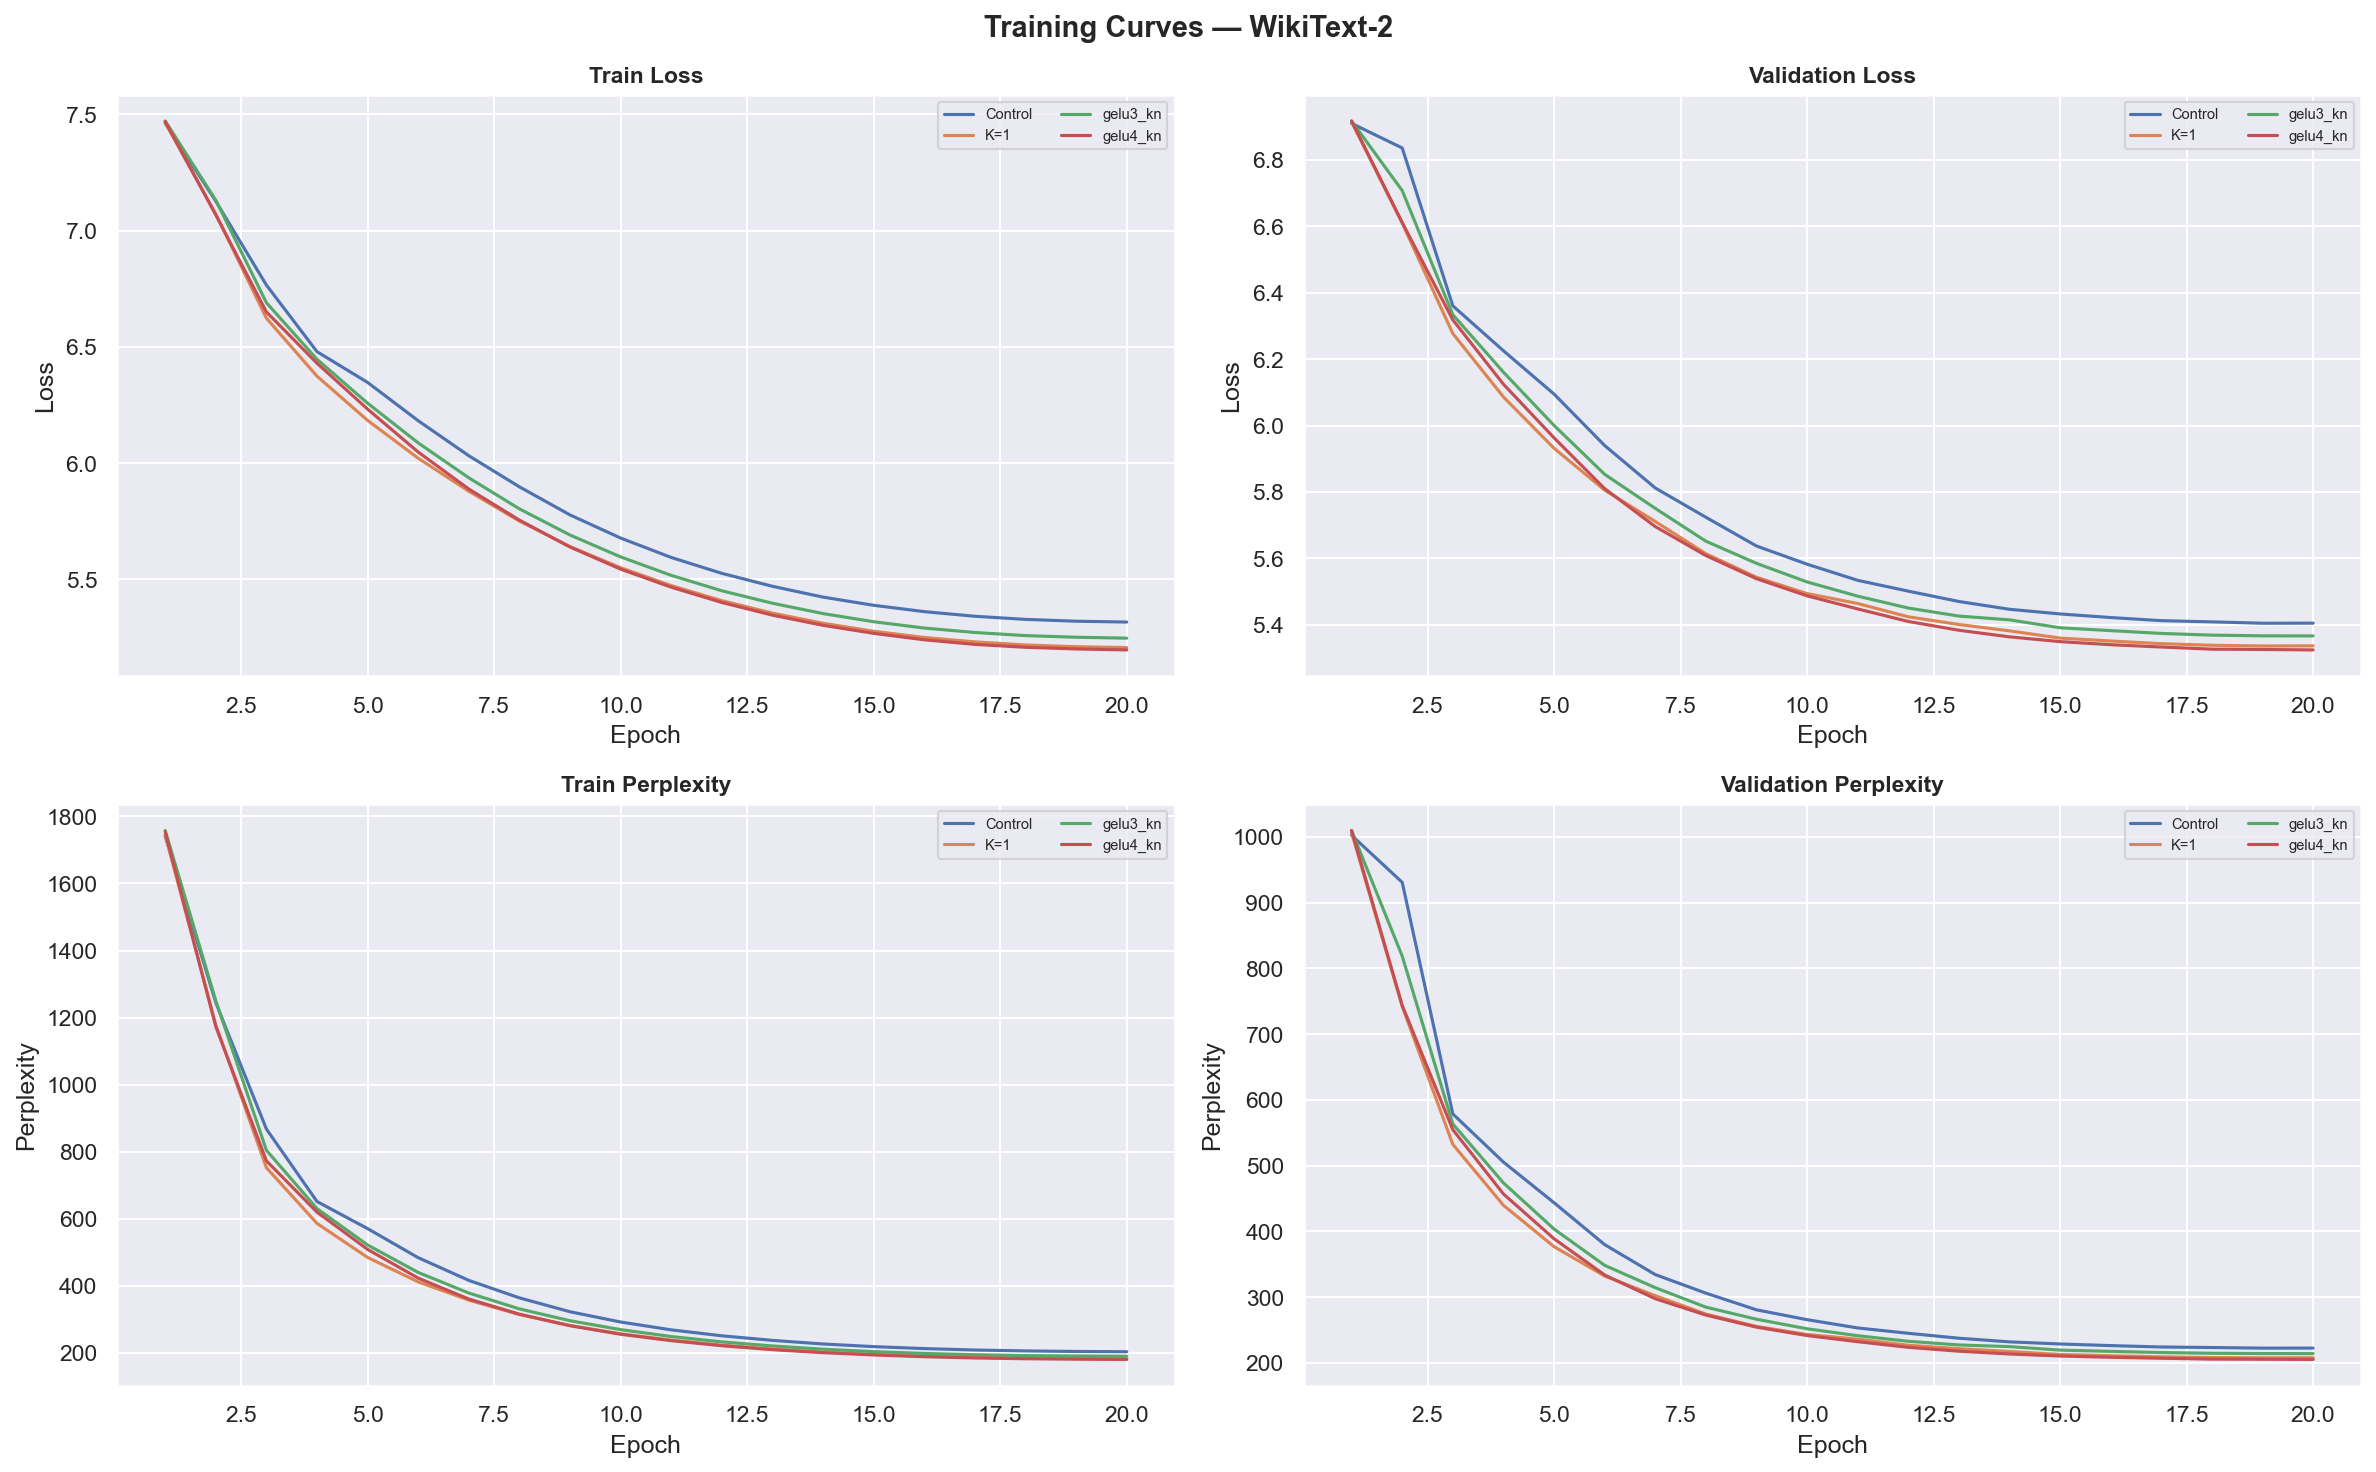
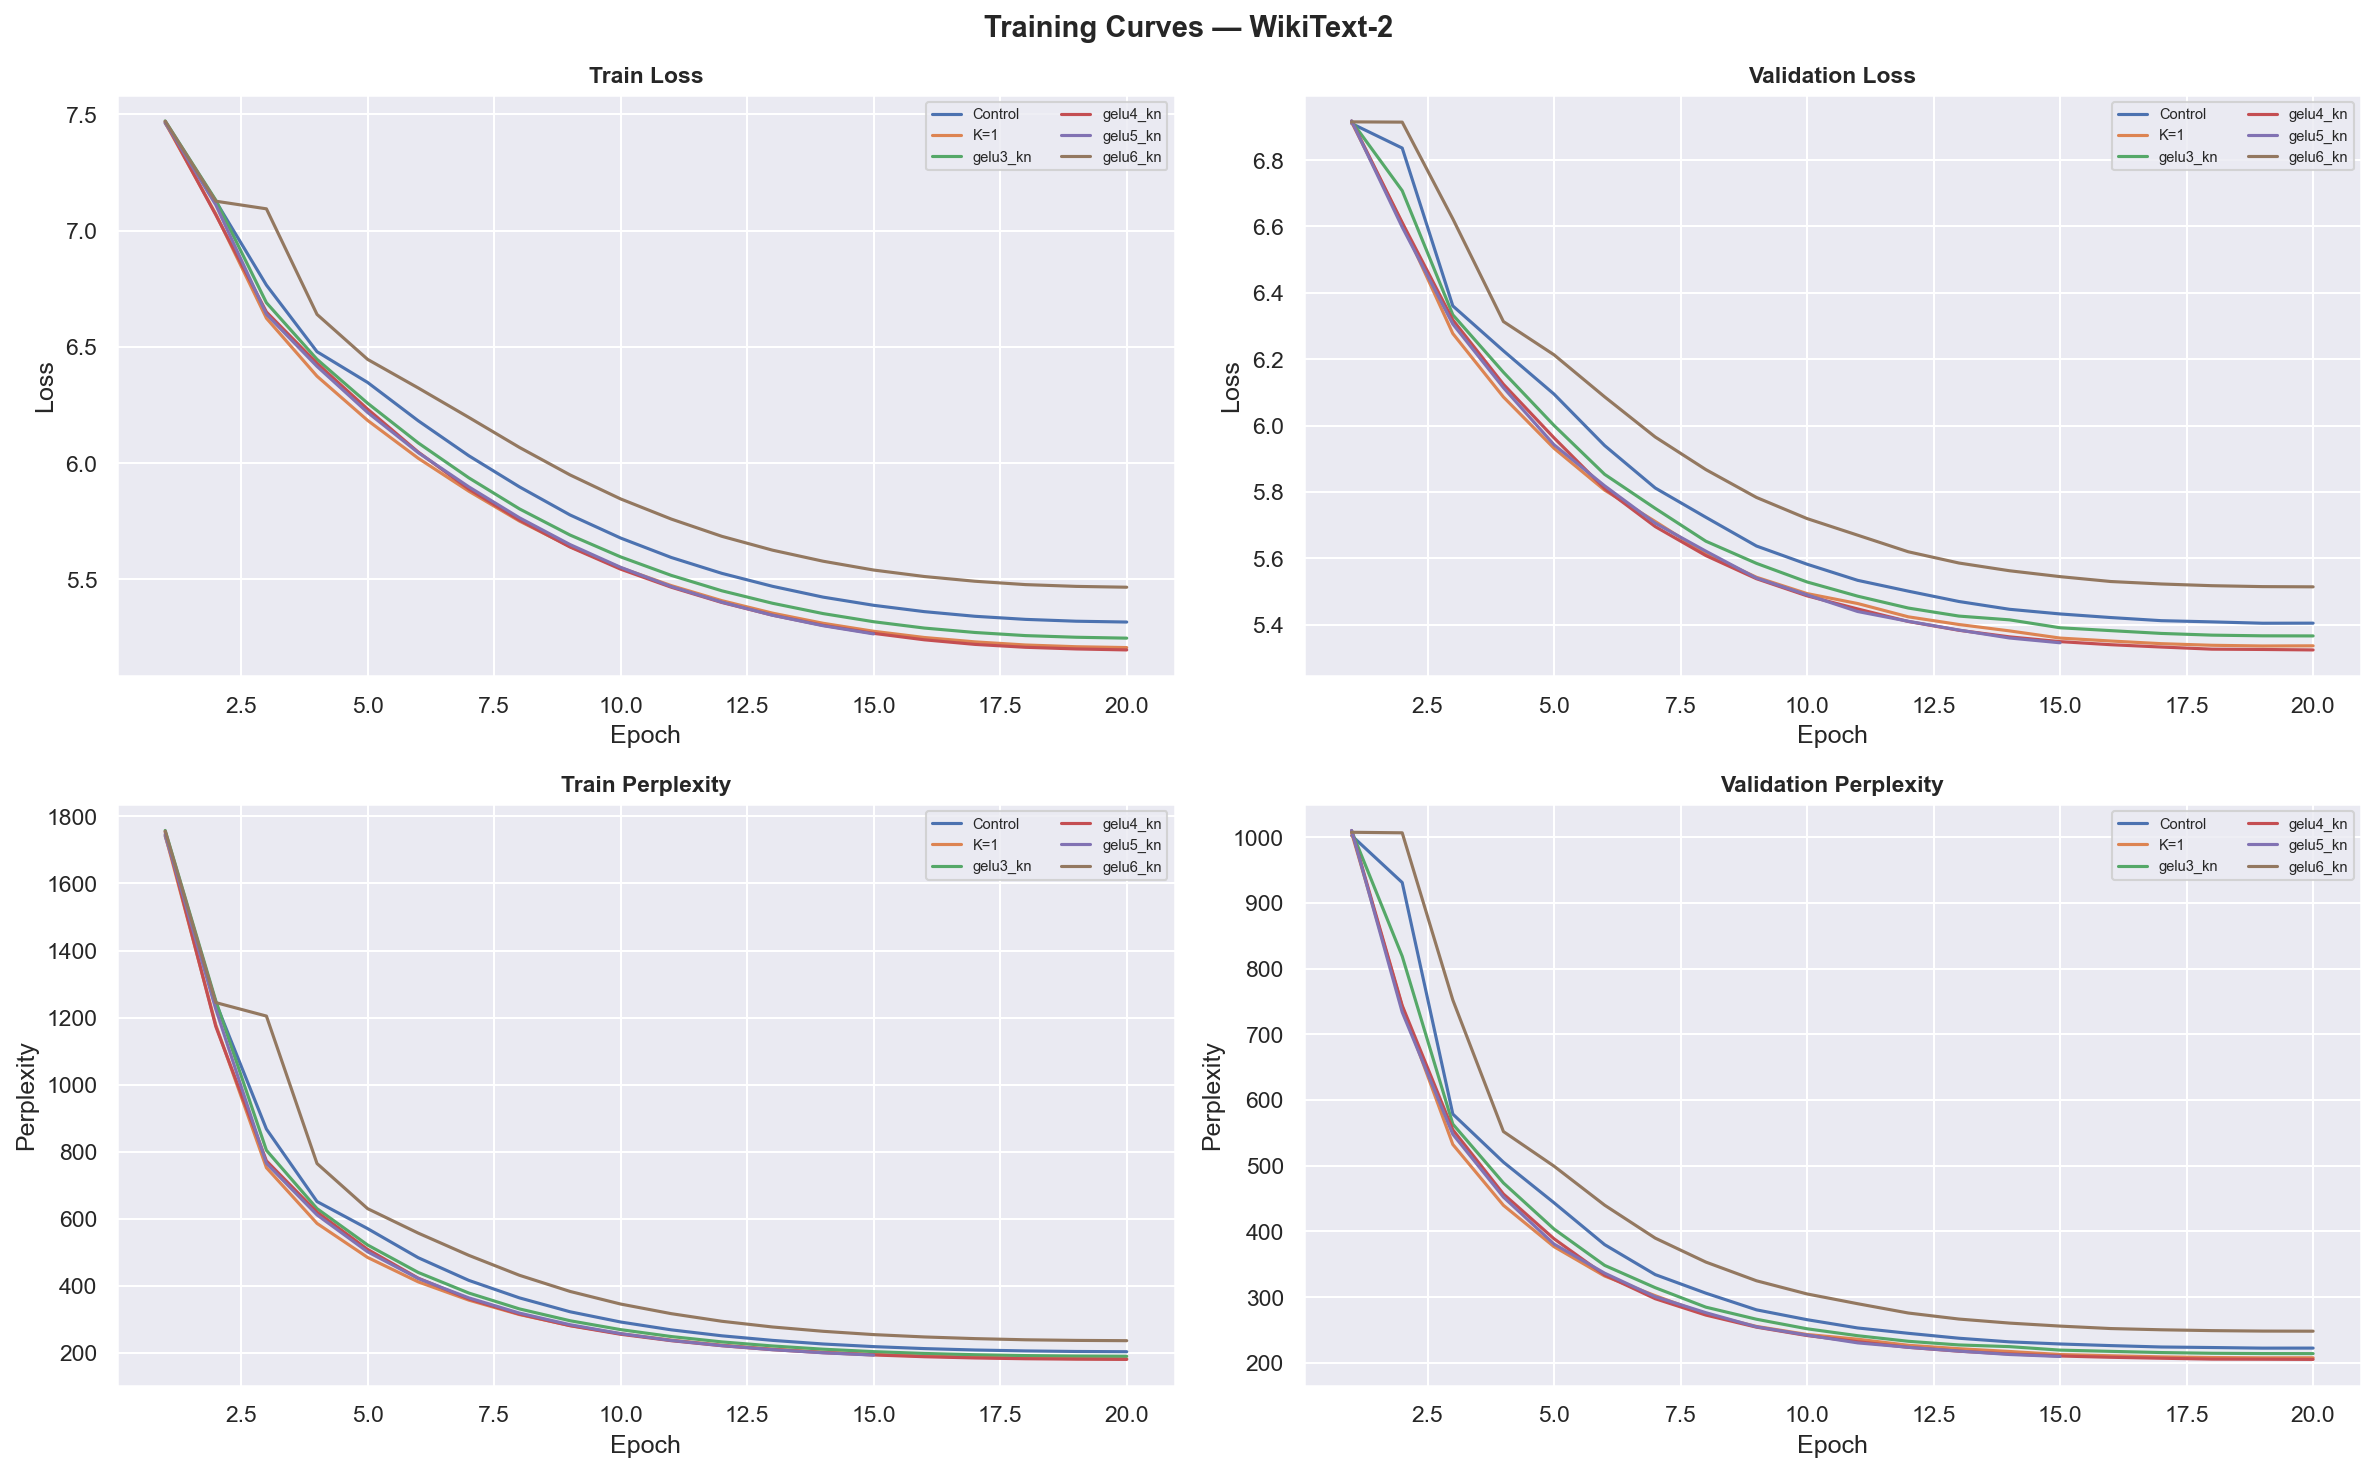
memory test 7.5

diff --git a/Research/Memory_Neurons/train.py b/Research/Memory_Neurons/train.py
@@ -1005,20 +1005,29 @@ class GELU6(nn.Module):
         dist2  = (x_sq + mu_sq.view(1, 1, K) - 2.0 * cross).clamp(min=0.0) / D  # (B,T,K)
 
         # ── Stage 2: σ-normalised soft assignment → blended refs ──────
+        # Floor scales_t so division never produces NaN / Inf.
+        scales_safe = scales_t.clamp(min=1e-3)                  # (K,) floored
         # Gradient flows: loss→famil→eff_mu/eff_sigma→weights→beta
-        dist2_norm = dist2 / scales_t.pow(2).view(1, 1, K)     # (B,T,K) in σ² units
+        dist2_norm = dist2 / scales_safe.pow(2).view(1, 1, K)  # (B,T,K) in σ² units
         weights    = torch.softmax(-beta * dist2_norm, dim=-1)  # (B,T,K)
-        eff_mu     = torch.einsum('btk,kd->btd', weights, mus_fwd)      # (B,T,D)
-        eff_sigma  = torch.einsum('btk,k->bt',   weights, scales_t)     # (B,T) — via weights→beta
+        eff_mu     = torch.einsum('btk,kd->btd', weights, mus_fwd)          # (B,T,D)
+        eff_sigma  = torch.einsum('btk,k->bt',   weights, scales_safe)      # (B,T)
 
         # ── Stage 3: per-neuron τ, scale-normalised familiarity ───────
-        diff  = x - eff_mu                                                      # (B,T,D) in-graph
+        diff  = x - eff_mu                                                   # (B,T,D) in-graph
+        # Extra floor on eff_sigma so gradient of exp stays finite.
         famil = torch.exp(-tau.view(1, 1, D) * diff.abs()
-                          / eff_sigma.unsqueeze(-1))                            # (B,T,D)
-        scale = 1.0 - alpha.view(1, 1, D) * famil                              # (B,T,D)
+                          / eff_sigma.clamp(min=1e-4).unsqueeze(-1))        # (B,T,D)
+        scale = 1.0 - alpha.view(1, 1, D) * famil                           # (B,T,D)
 
         # ── EMA updates — training only, all detached ──────────────────
         if self.training:
+            # Per-cluster RMS spread of individual tokens (not batch-mean distance).
+            # dist2 is (B,T,K), each entry = ||x[b,t]−μ_k||²/D.
+            # sqrt(mean over b,t) = typical per-dimension distance to cluster k.
+            # This is stable and stays finite even when μ_k ≈ x_mean.
+            sigma_from_tokens = dist2.detach().mean(dim=(0, 1)).sqrt()  # (K,)
+
             # Soft online-EM updates: every cluster moves proportional to r_k
             # lr_k = (1-d) · r_k  →  winner moves fastest, losers barely move
             r_list = r.tolist()
@@ -1027,10 +1036,12 @@ class GELU6(nn.Module):
                 # Mean update
                 lr_mu = (1.0 - d_mu) * rk
                 self._mus[k] = (1.0 - lr_mu) * self._mus[k] + lr_mu * x_mean
-                # Scale update: track typical distance from this cluster
-                dist_k = diff_means[k].pow(2).mean().sqrt().item()
-                lr_s   = (1.0 - d_s) * rk
-                self._scales[k] = (1.0 - lr_s) * self._scales[k] + lr_s * dist_k
+                # Scale update: track within-cluster token spread (not batch-mean distance)
+                lr_s = (1.0 - d_s) * rk
+                self._scales[k] = max(
+                    (1.0 - lr_s) * self._scales[k] + lr_s * sigma_from_tokens[k].item(),
+                    1e-3  # hard floor — prevents collapse and div-by-zero
+                )
 
             # Weight EMA → renormalise
             self._ws = dw_val * self._ws + (1.0 - dw_val) * r
